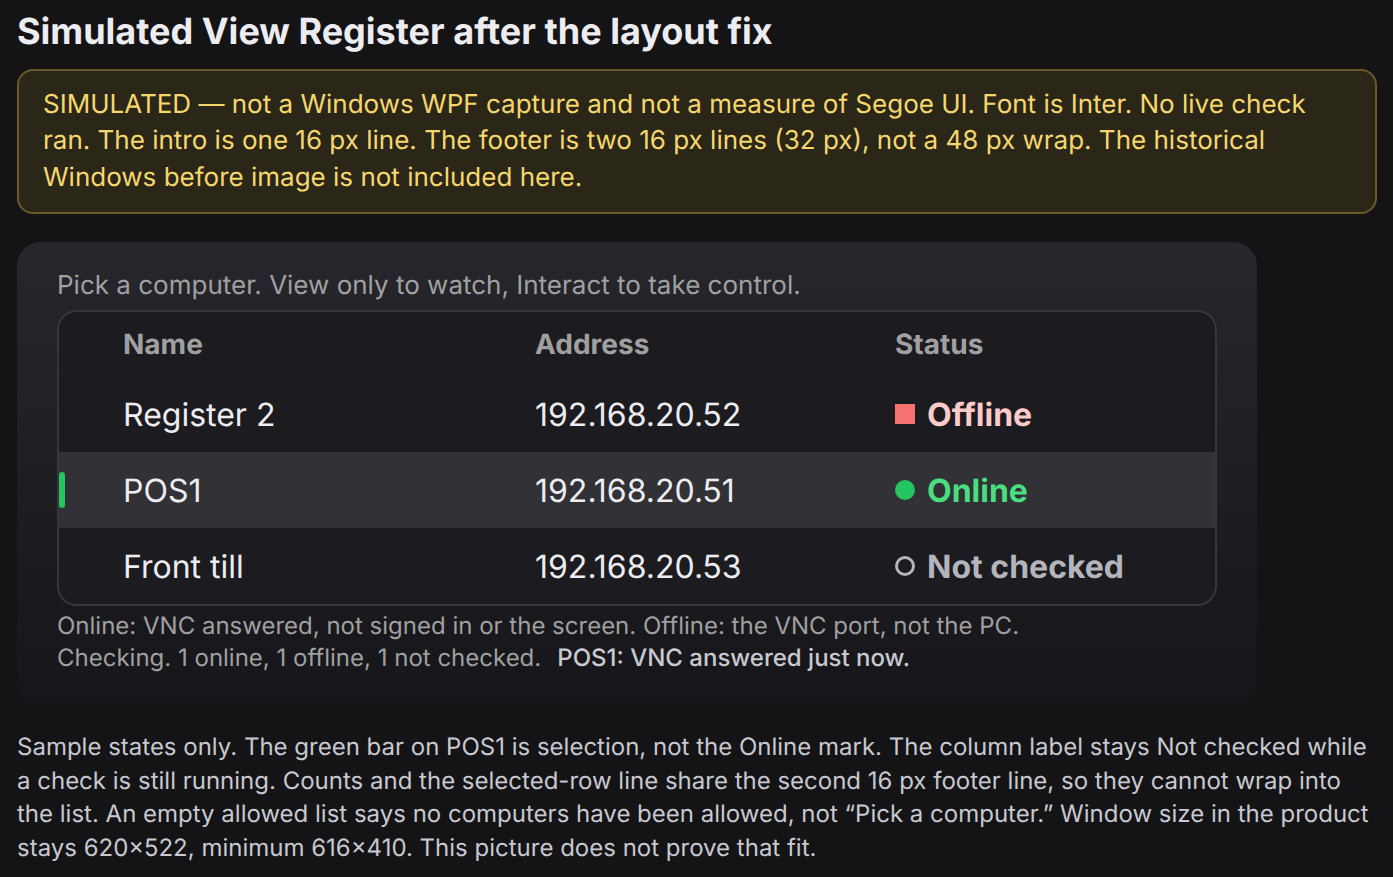
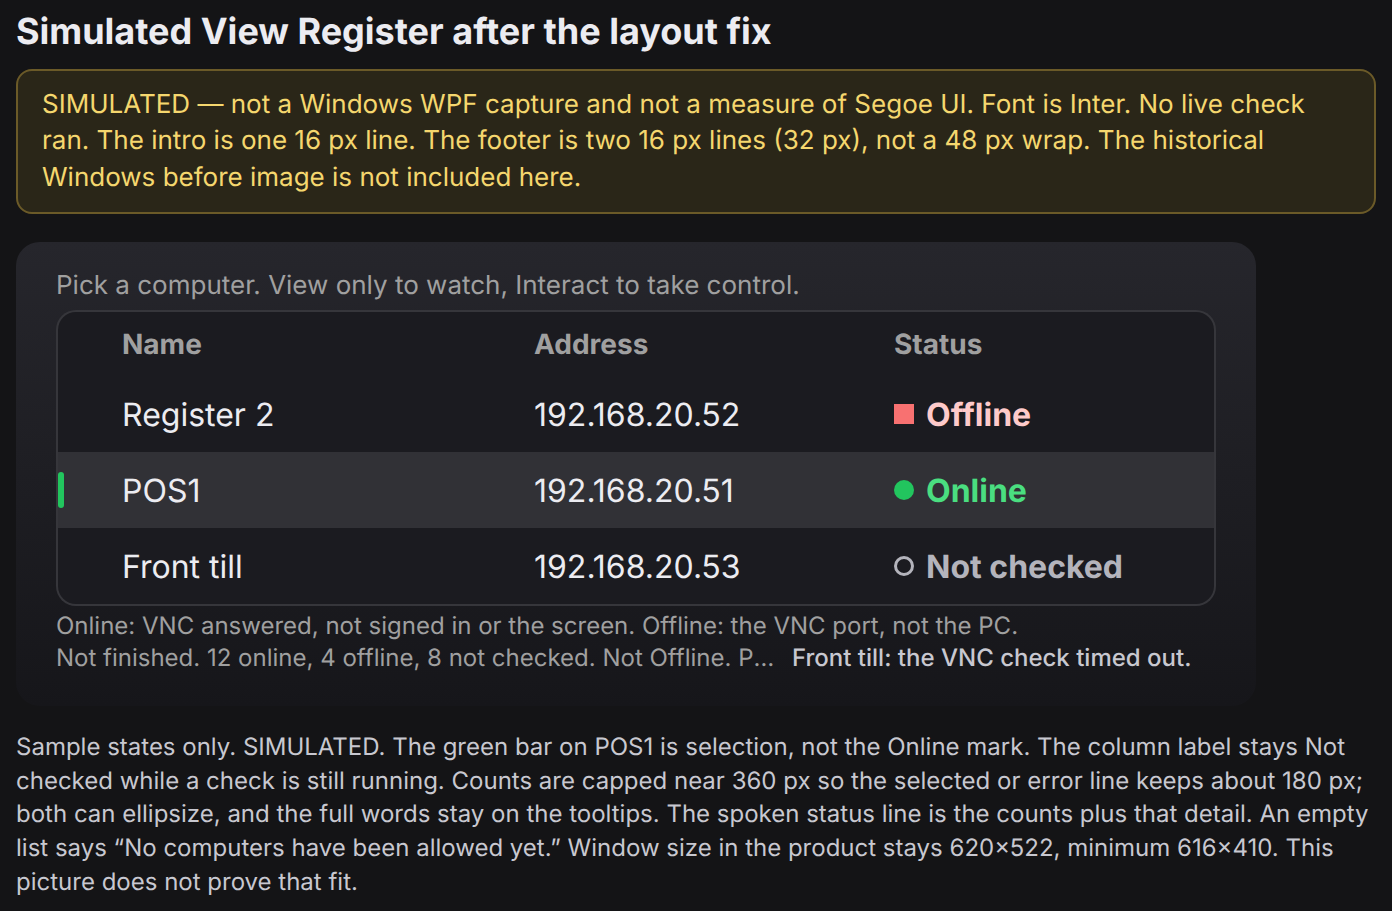
v1.4.12 review: keep the error line readable and announced
Long fault counts stop at 360 px so the selected or error line keeps 180 px. The polite status announcement is the counts plus that line, and the caveat and detail names stay the full text. An empty list says "No computers have been allowed yet."

diff --git a/reviews/v1.4.12-status/after-review-fixes.html b/reviews/v1.4.12-status/after-review-fixes.html
@@ -26,7 +26,9 @@
   .foot { margin-top: 2px; height: 32px; color: #a0a0a0; font-size: 12px; line-height: 16px; }
   .foot div { height: 16px; white-space: nowrap; overflow: hidden; text-overflow: ellipsis; }
   .pair { display: flex; gap: 8px; }
-  .pair b { font-weight: 450; color: #c8c8d0; }
+  .pair span, .pair b { overflow: hidden; text-overflow: ellipsis; white-space: nowrap; }
+  .pair span { max-width: 360px; flex: 0 1 auto; }
+  .pair b { min-width: 180px; flex: 1 0 180px; font-weight: 450; color: #c8c8d0; }
   .note { margin: 12px 0 0; color: #c8c8d0; font-size: 12px; line-height: 1.4; max-width: 680px; }
 </style>
 </head>
@@ -43,9 +45,9 @@
     </div>
     <div class="foot">
       <div>Online: VNC answered, not signed in or the screen. Offline: the VNC port, not the PC.</div>
-      <div class="pair"><span>Checking. 1 online, 1 offline, 1 not checked.</span><b>POS1: VNC answered just now.</b></div>
+      <div class="pair"><span>Not finished. 12 online, 4 offline, 8 not checked. Not Offline. Press F5.</span><b>Front till: the VNC check timed out.</b></div>
     </div>
   </div>
-  <p class="note">Sample states only. The green bar on POS1 is selection, not the Online mark. The column label stays Not checked while a check is still running. Counts and the selected-row line share the second 16 px footer line, so they cannot wrap into the list. An empty allowed list says no computers have been allowed, not “Pick a computer.” Window size in the product stays 620×522, minimum 616×410. This picture does not prove that fit.</p>
+  <p class="note">Sample states only. SIMULATED. The green bar on POS1 is selection, not the Online mark. The column label stays Not checked while a check is still running. Counts are capped near 360 px so the selected or error line keeps about 180 px; both can ellipsize, and the full words stay on the tooltips. The spoken status line is the counts plus that detail. An empty list says “No computers have been allowed yet.” Window size in the product stays 620×522, minimum 616×410. This picture does not prove that fit.</p>
 </body>
 </html>

diff --git a/RELEASE-NOTES.md b/RELEASE-NOTES.md
@@ -11,7 +11,7 @@ Not tagged, not published, not installed. Built for review from v1.4.11 `37ea47d
 - **Not checked** means there is no result yet, a check is in progress, the check timed out, it was cancelled, the address cannot be checked, the check did not finish, or the last result is older than 60 seconds (or more than 5 minutes in the future). None of those are Offline. Being on the allowed list is not Online.
 - The check is the existing allowed-list check: only those computers, the same 300 ms shared budget, at most 12 bytes read, nothing sent. It runs off the UI thread when the window opens and when F5 is pressed. F5 during a check cancels that check without waiting and starts another; a late result from the old check is ignored. Closing the window cancels it the same way (BeginStop, sockets closed in finally). After 60 seconds the labels repaint to Not checked. That timer does not connect.
 - A saved view-only password is still sent only for a fresh Online IPv4 row whose greeting ended with a line feed. A stale, cancelled, timed-out, or not-yet result does not send it, and the message says which of those it was. Interact still closes View Register only after a start that did not throw. Arguments, Shell.Application with the ProcessStartInfo fallback, `-autoscaling`, and View only are unchanged.
-- Review fixes, still not released: the count, checking, and fault line is written after the list is rebuilt, so that rebuild cannot replace it with "Pick a computer". Moving the selection keeps the counts and adds one short line for the selected computer. When a result expires, the counts are rewritten, including while a check is still running, and the same words are not announced again. The line under the list says Online means VNC answered, not signed in or the screen, and Offline is the VNC port, not the whole computer. That line and the counts share the old footer height, so the list still has room for 4 rows at the 410 px minimum. An empty allowed list says none have been allowed. Cancelling a check still does not wait on the window; the read gives up within a short slice and the socket is closed.
+- Review fixes, still not released: the count, checking, and fault line is written after the list is rebuilt, so that rebuild cannot replace it with "Pick a computer". Moving the selection keeps the counts and adds one short line for the selected computer. When a result expires, the counts are rewritten, including while a check is still running, and the same words are not announced again. The line under the list says Online means VNC answered, not signed in or the screen, and Offline is the VNC port, not the whole computer. That line and the counts share the old footer height, so the list still has room for 4 rows at the 410 px minimum. An empty allowed list says "No computers have been allowed yet." The status announcement includes the selected computer's line, and that line keeps at least 180 px beside the counts. Cancelling a check still does not wait on the window; the read gives up within a short slice and the socket is closed.
 
 ## v1.4.11: Interact closes View Register
 - Charles: "when they click interact and connect to VNC i want the View register screen to close". After Interact starts the viewer, View Register closes; the log says "View Register closed after Interact start". If the viewer can't be started (no address, viewer missing, the start fails), View Register stays open and shows the problem as before. View only is unchanged, and so are the viewer arguments and how it's started.
